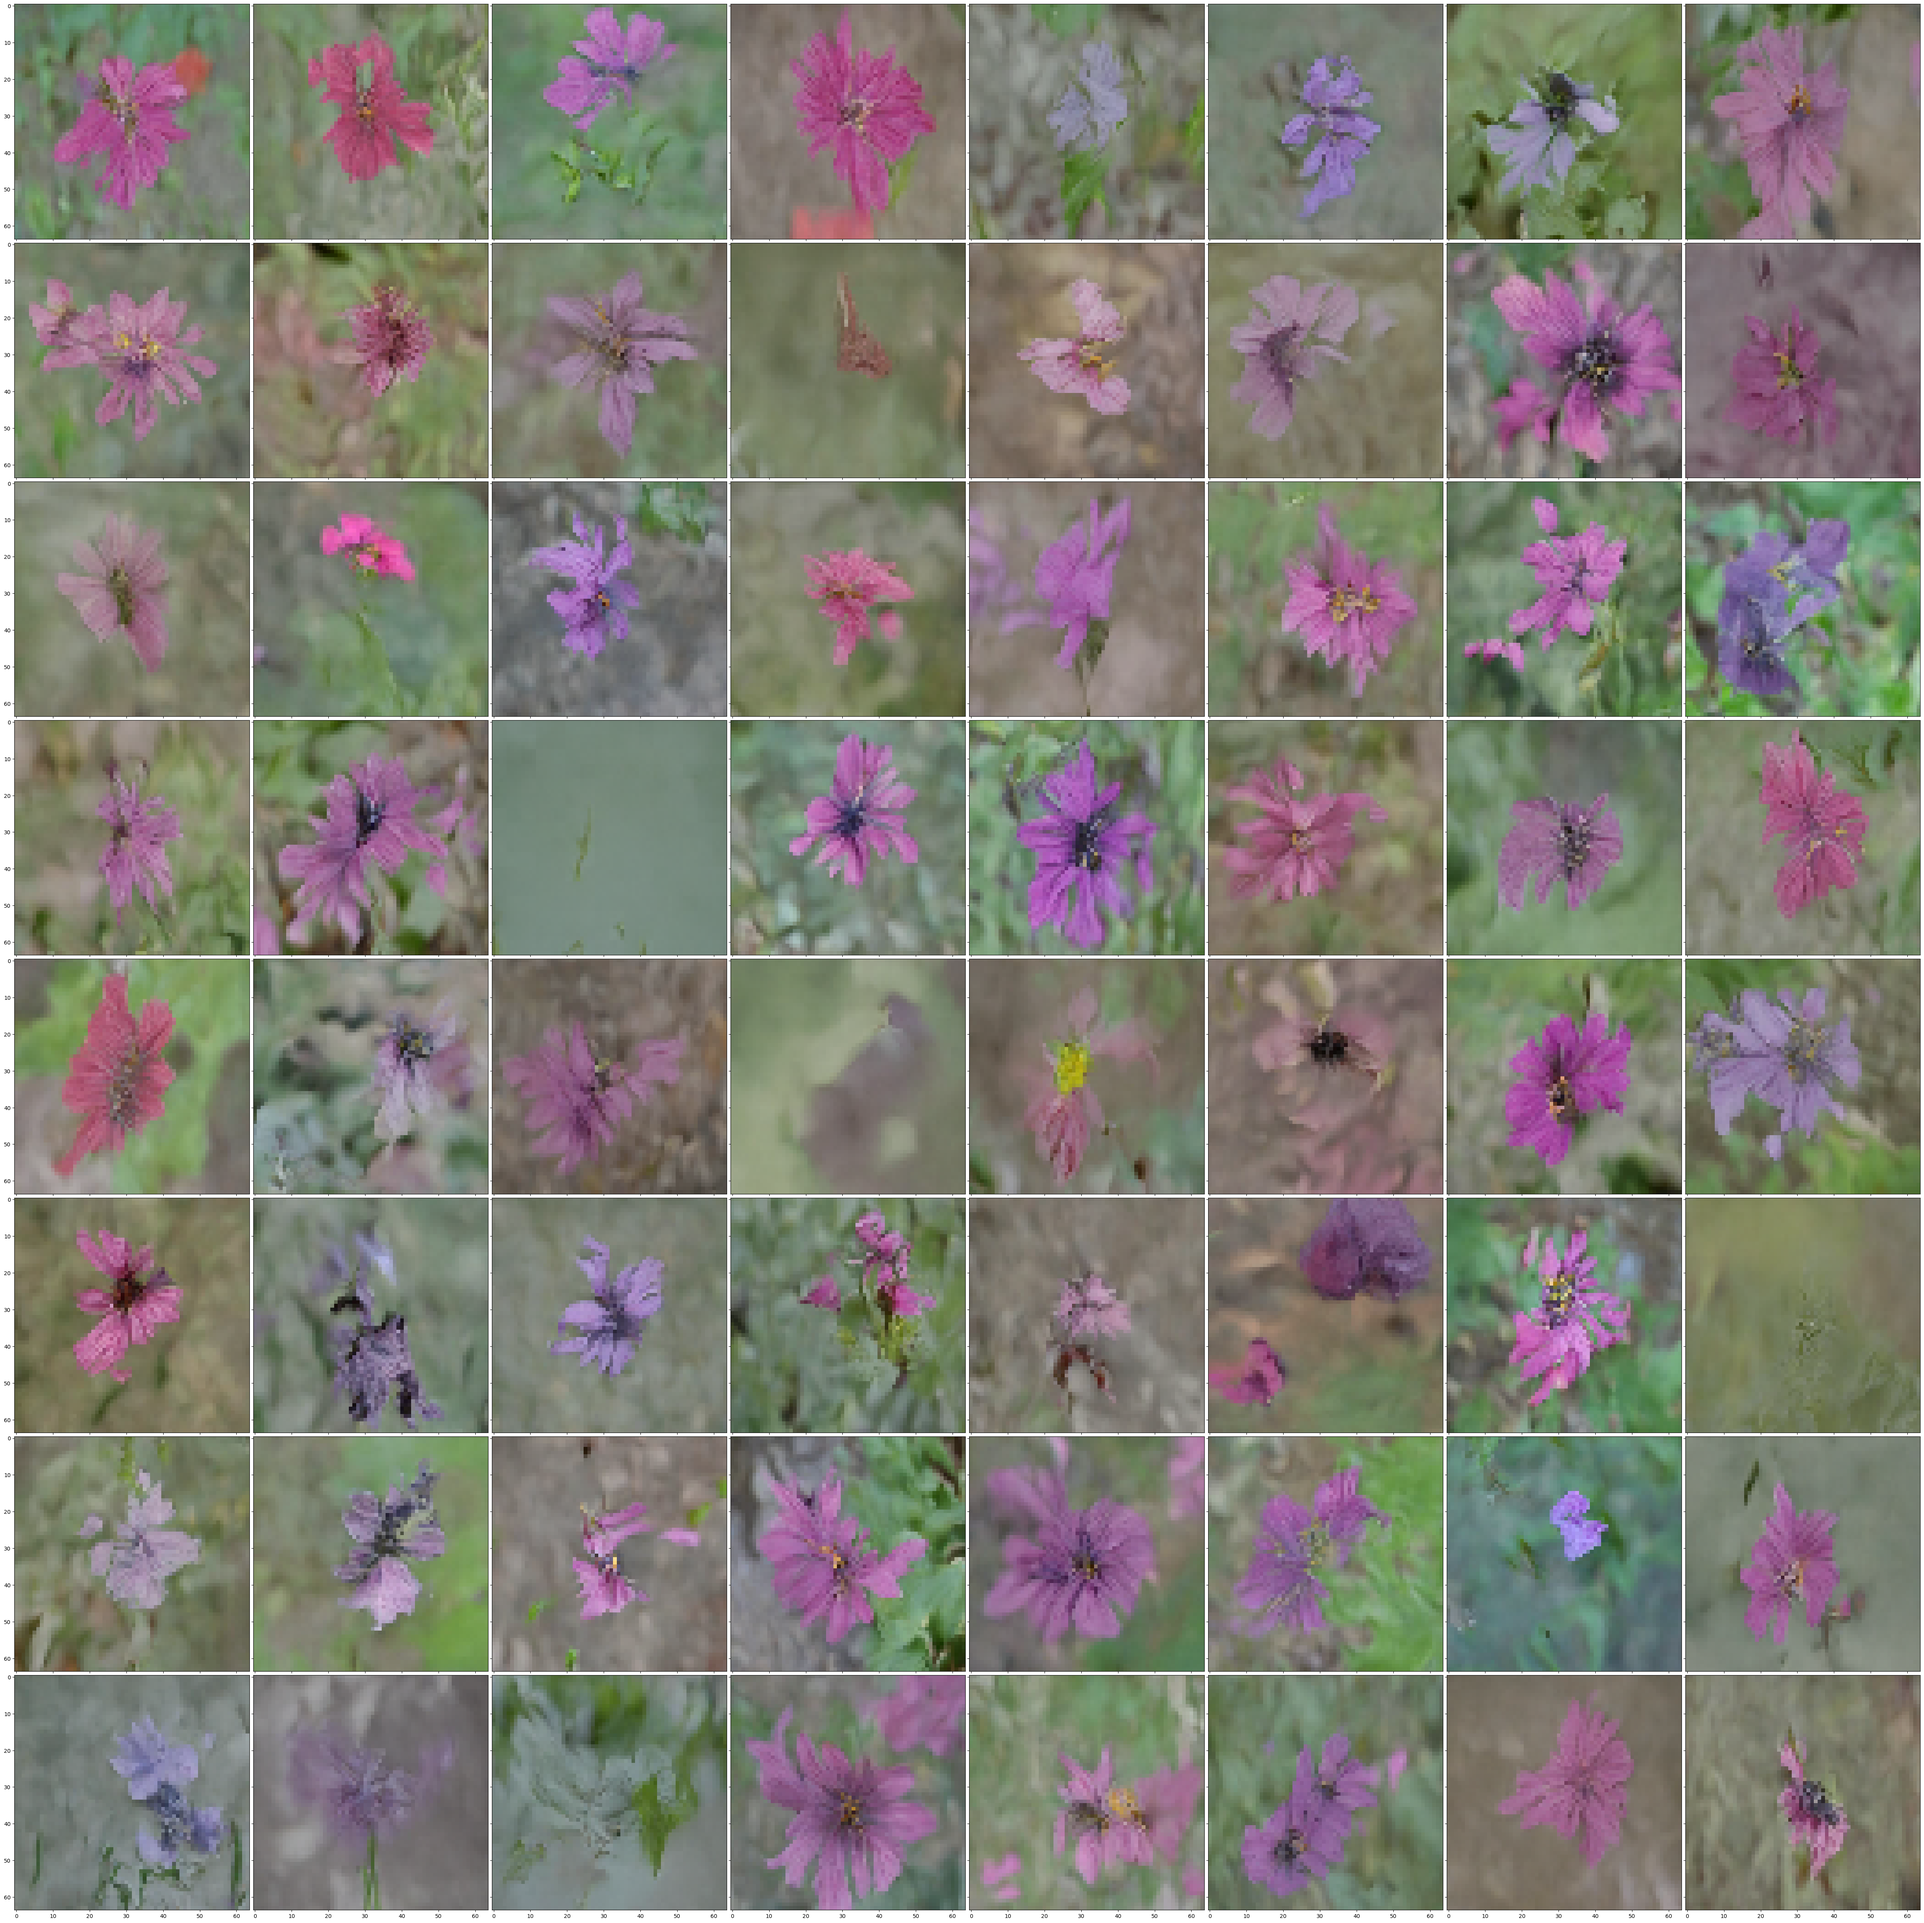
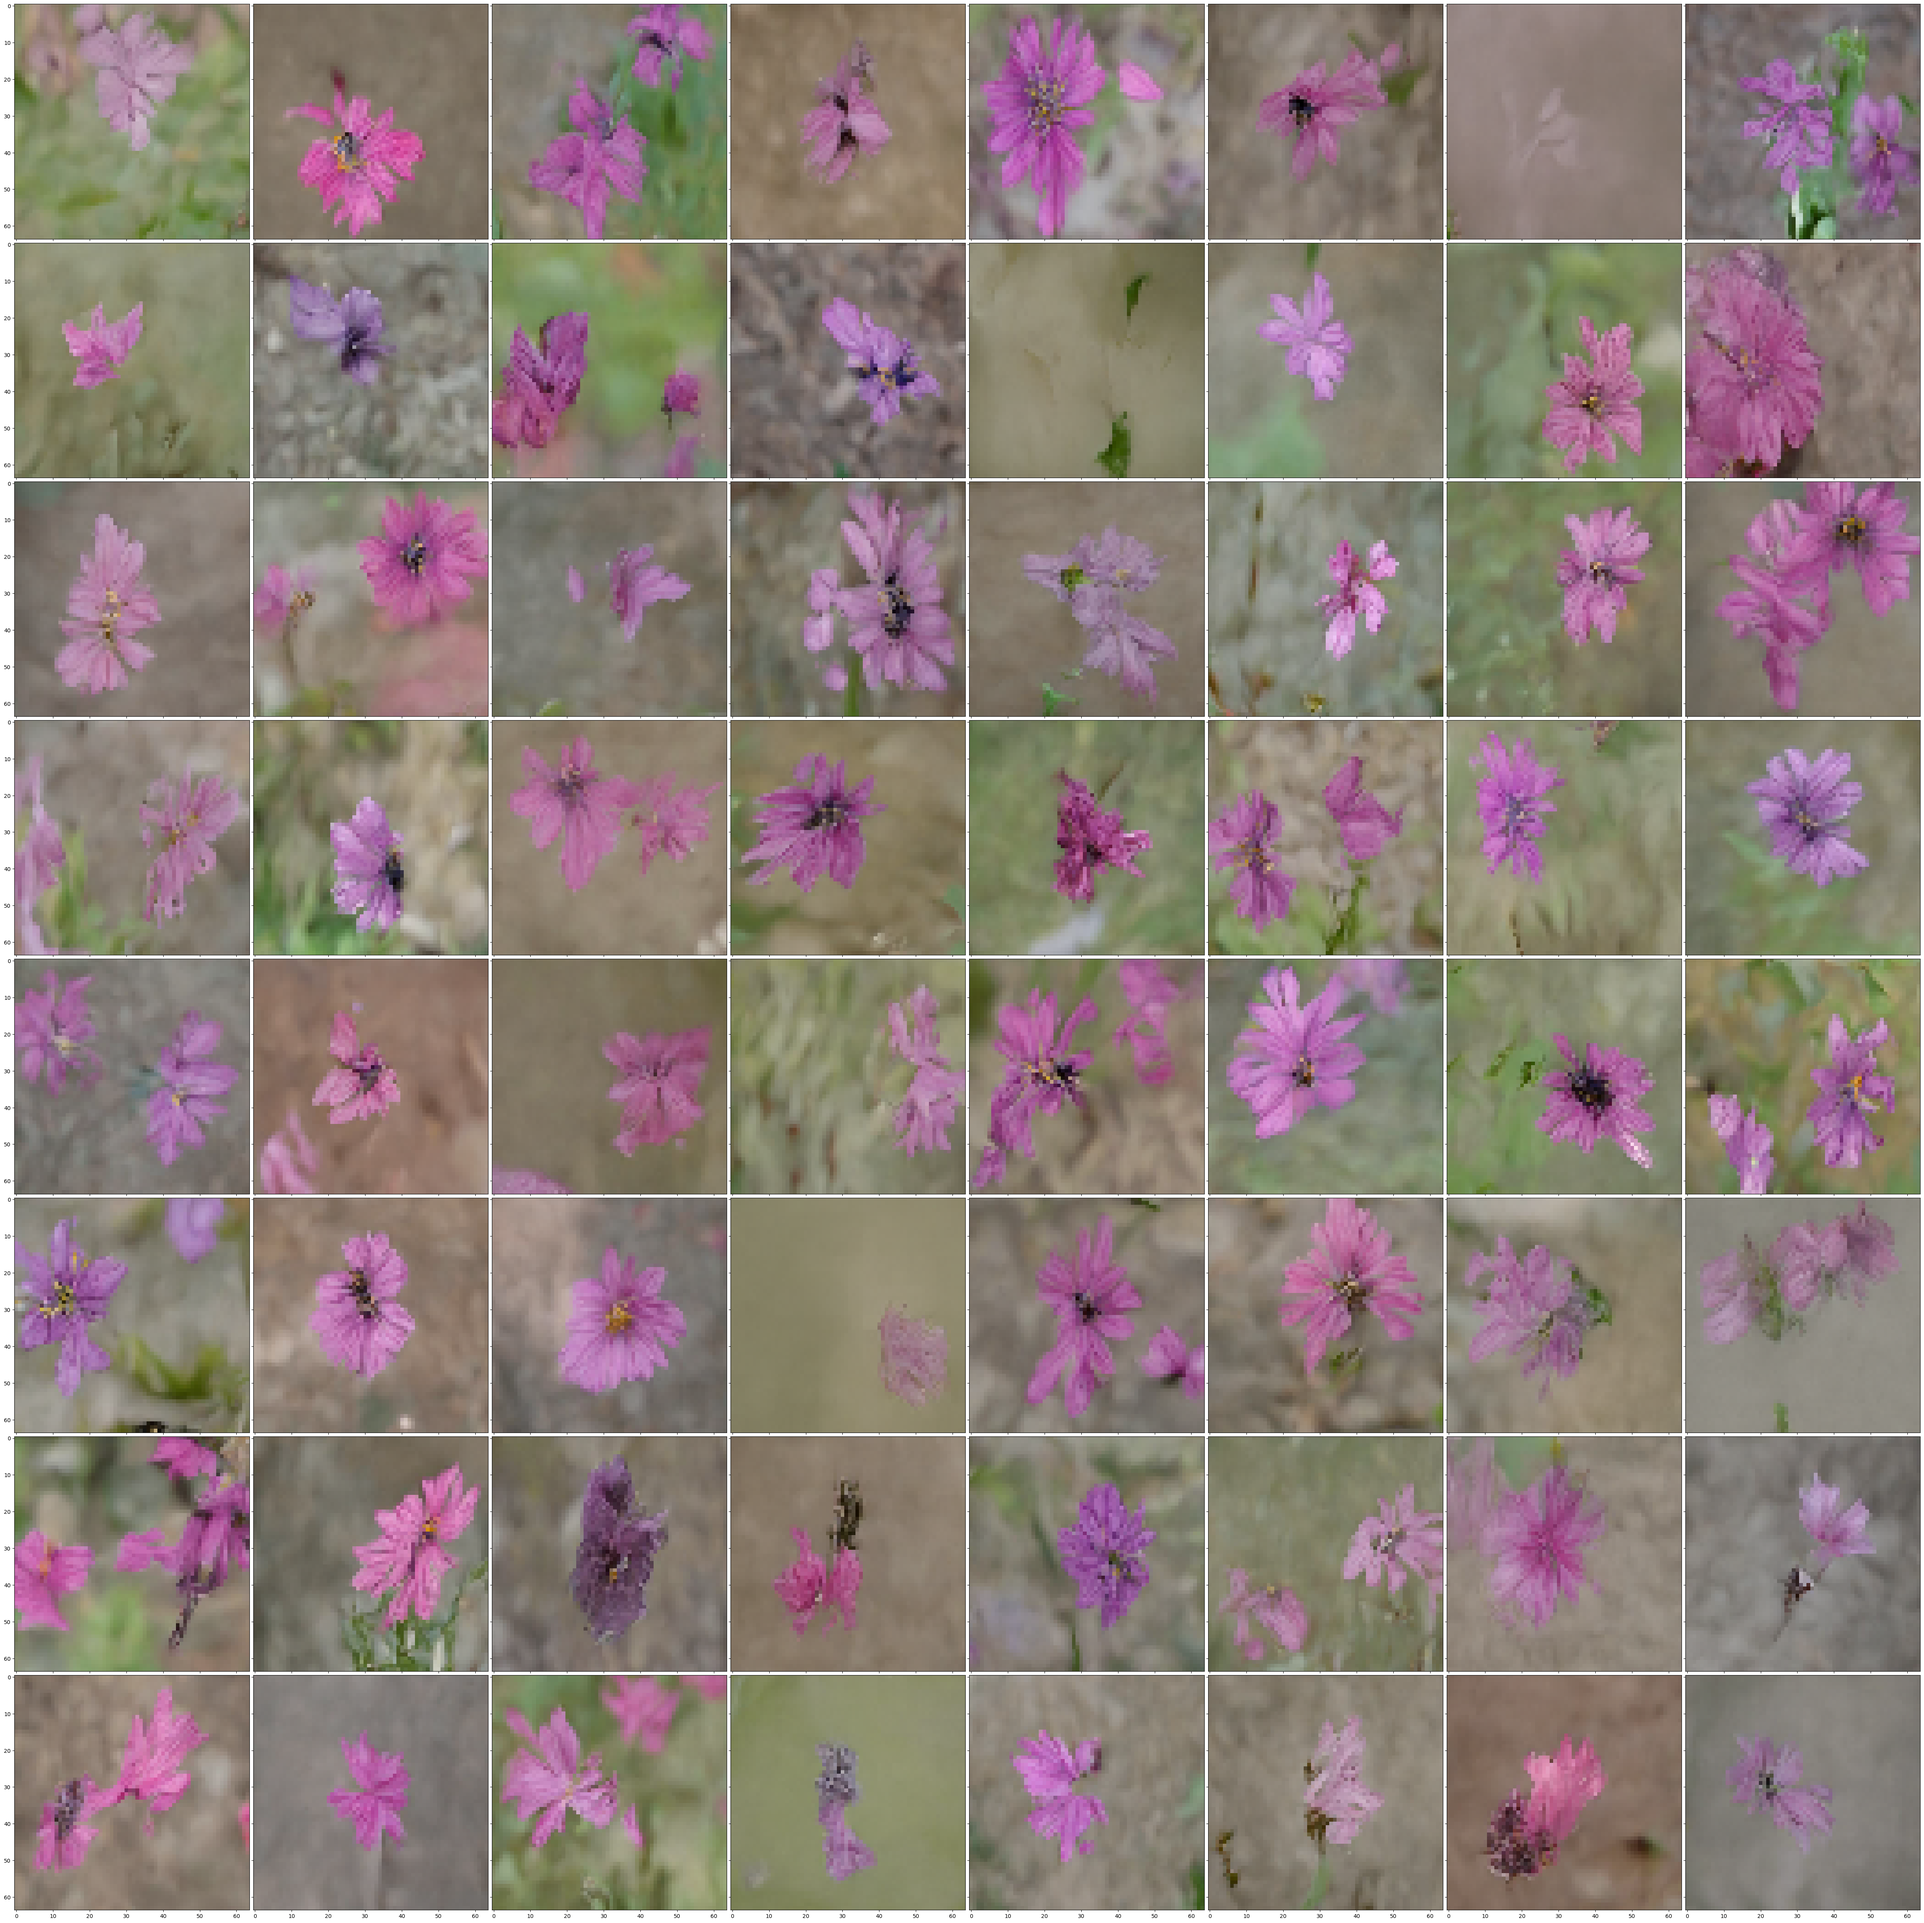
upload weights

diff --git a/README.md b/README.md
@@ -1,10 +1,11 @@
 # Bayesian_Flow_Networks
 A replication of [Bayesian_Flow_Networks](https://arxiv.org/abs/2308.07037) paper with PyTorch and [U-ViT](https://arxiv.org/pdf/2209.12152.pdf).
 
-| ![samples_10](images/samples_10.png) | ![samples_41](images/samples_41.png) | ![samples_49](images/samples_49.png) |
-| ------------------------------------ | ------------------------------------ | ------------------------------------ |
-| ![samples_50](images/samples_50.png) | ![samples_62](images/samples_62.png) | ![samples_66](images/samples_66.png) |
-| ![samples_73](images/samples_73.png) | ![samples_83](images/samples_83.png) | ![samples100](images/samples100.png) |
+| ![samples_01](images/samples_01.png) | ![samples_05](images/samples_05.png) | ![samples_13](images/samples_13.png) | ![samples_29](images/samples_29.png) |
+| ------------------------------------ | ------------------------------------ | ------------------------------------ | ------------------------------------ |
+| ![samples_35](images/samples_35.png) | ![samples_41](images/samples_41.png) | ![samples_49](images/samples_49.png) | ![samples_52](images/samples_52.png) |
+| ![samples_54](images/samples_54.png) | ![samples_60](images/samples_60.png) | ![samples_66](images/samples_66.png) | ![samples_73](images/samples_73.png) |
+| ![samples_86](images/samples_86.png) | ![samples_91](images/samples_91.png) | ![samples_99](images/samples_99.png) | ![samples100](images/samples100.png) |
 
 To train a new model, you can modify the yaml file and:
 
@@ -12,9 +13,9 @@ To train a new model, you can modify the yaml file and:
 
 Training data of [Oxford Flowers](https://www.robots.ox.ac.uk/~vgg/data/flowers/) should be split manually, and you can find the numpy version of their labels in this repo.
 
-To run inference:
+To run inference, please  download my [pretrained weight](https://drive.google.com/file/d/1OjzcLhEVofZNDO4UjM8beaEzNl2f5zIq/view?usp=sharing):
 
-` python sample_img.py --device "cuda:0" --load "last" --SavedDir tmp/ --ExpConfig example/example.yaml --n_sqrt 8 --steps 200 `
+` python sample_img.py --device "cuda:0" --load "last" --SavedDir tmp/ --ExpConfig BFN_example/BFN_example.yaml --n_sqrt 8 --steps 200 `
 
 The inference process is controled by 6 parameters :
 
